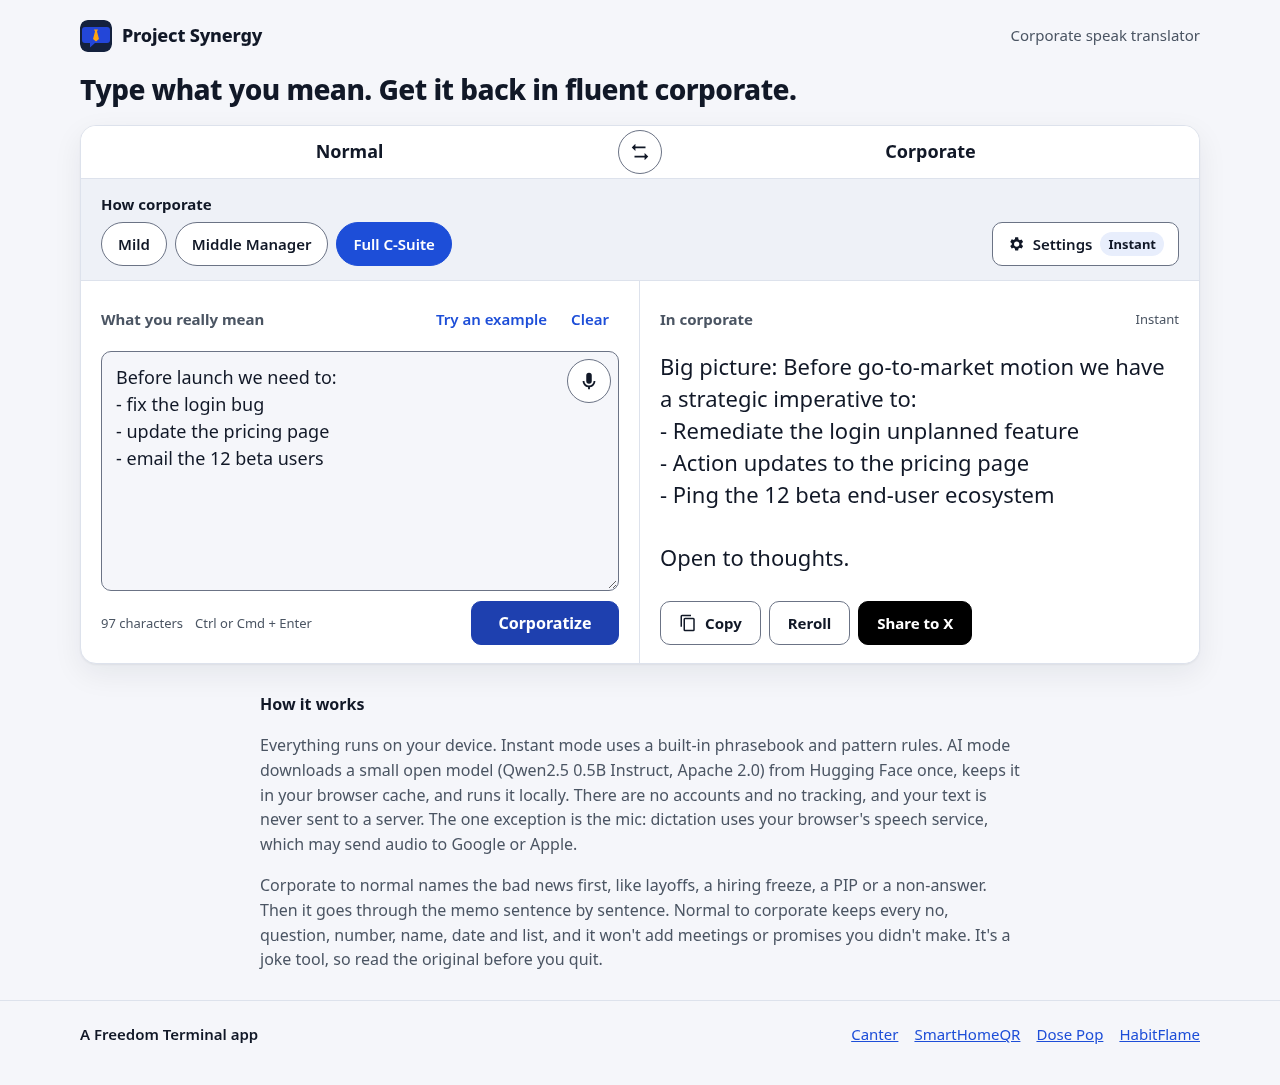
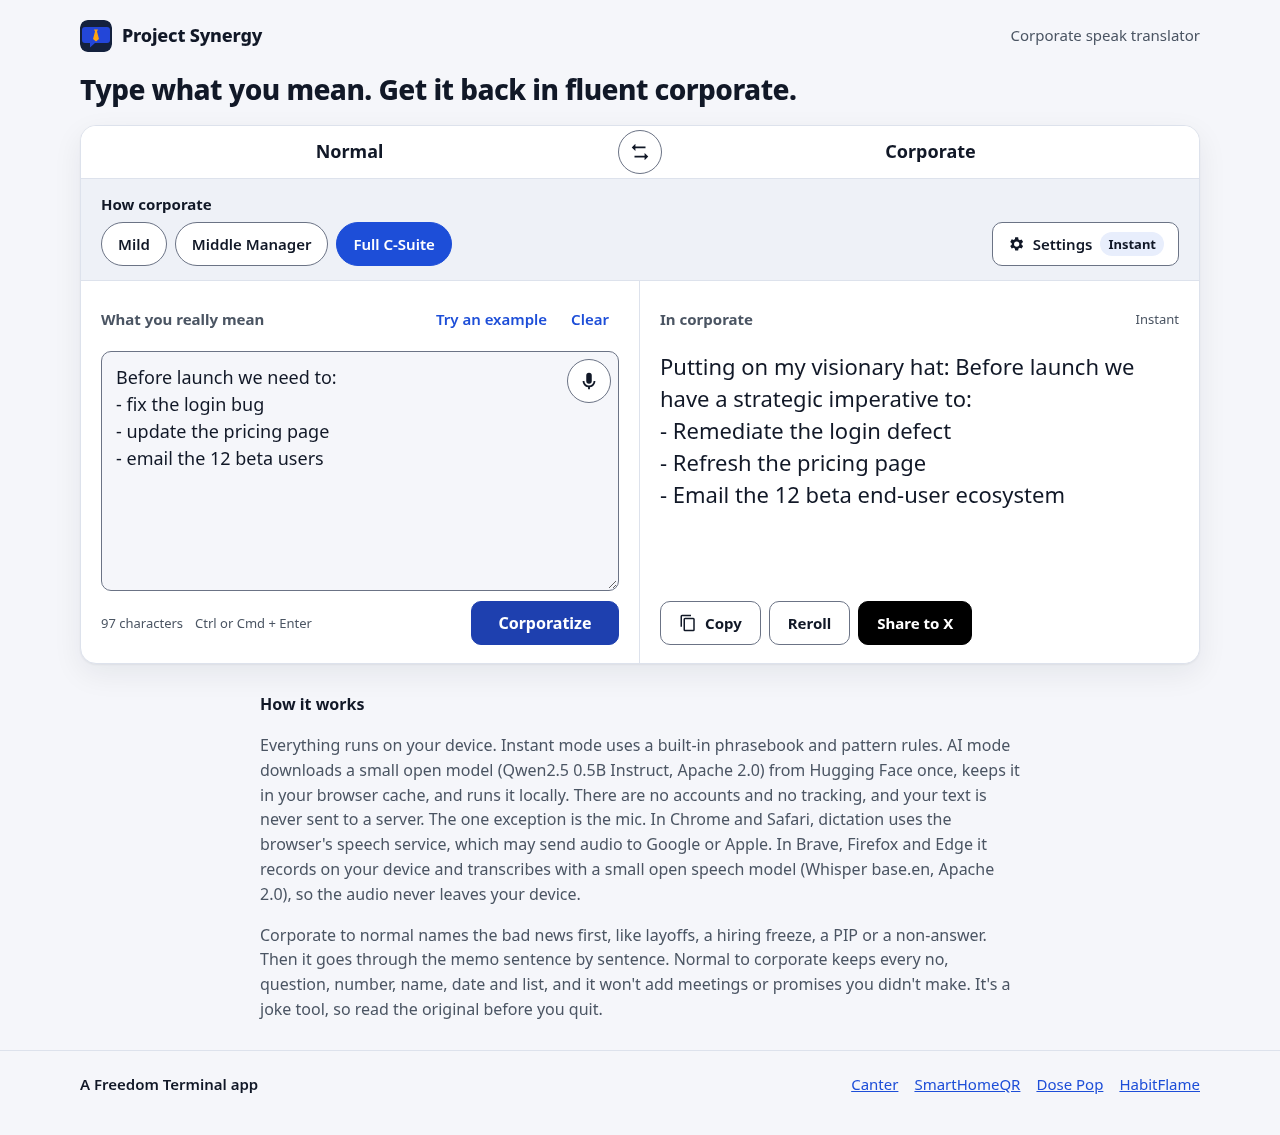
Count 'needs significant work' as keeping the meaning of a crude dismissal

diff --git a/site/profanity.js b/site/profanity.js
@@ -457,7 +457,7 @@ export const IDIOM_MEANINGS = [
   {
     id: "not-true",
     re: /\b(?:bullshit|bollocks)\b|\bfull of (?:shit|crap)\b/i,
-    must: /nonsense|credible|right|agree|concern|reservation|data|true|accurate|use of (?:our |my |your )?time|driving (?:meaningful )?value|worthwhile|pointless|wrong|mislead|straight|making things up|exaggerat|push(?:ing|ed|es)? back|challeng|transparen|doubt|skeptic|unsupported/i,
+    must: /nonsense|credible|right|agree|concern|reservation|data|true|accurate|use of (?:our |my |your )?time|driving (?:meaningful )?value|worthwhile|pointless|wrong|mislead|straight|making things up|exaggerat|push(?:ing|ed|es)? back|challeng|transparen|doubt|skeptic|unsupported|needs significant work|runway for improvement/i,
   },
   {
     id: "bad",
